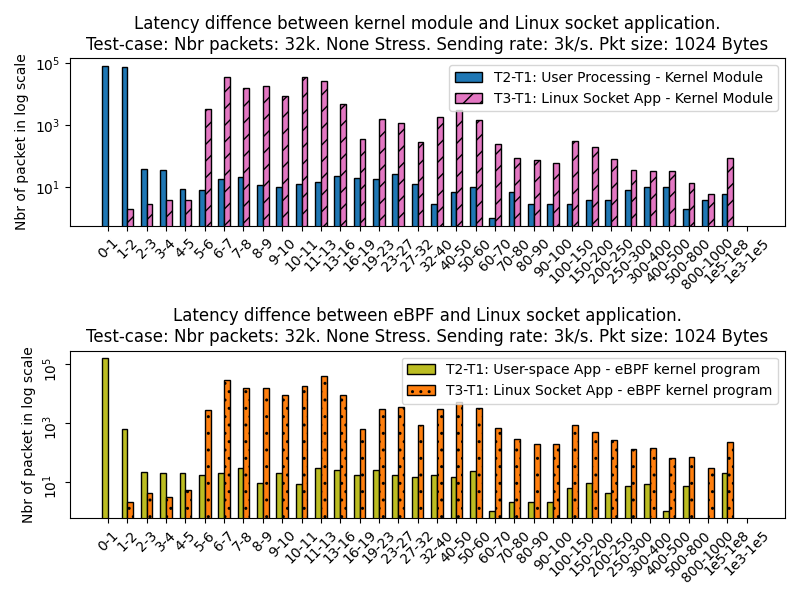
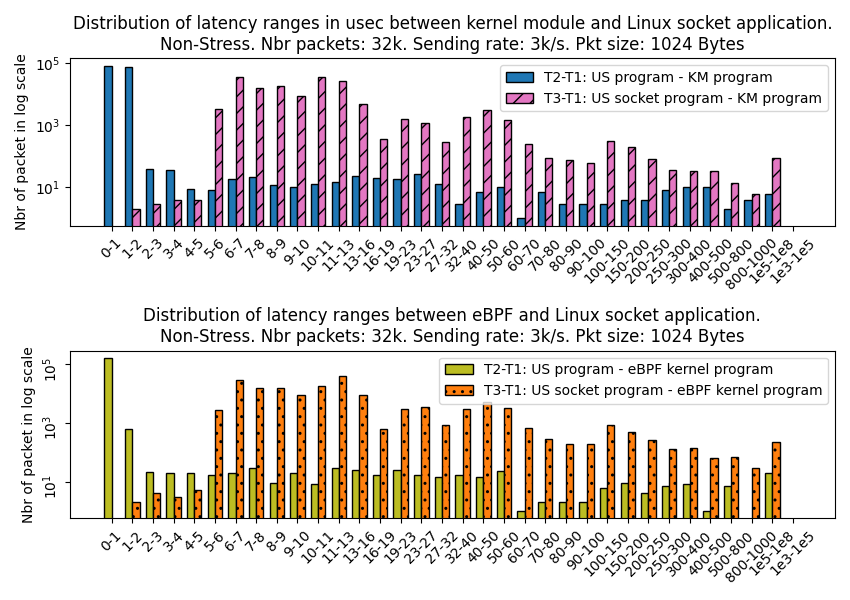
.

Changed region(s): [[0.0, 0.03, 1.0, 0.48], [0.0312, 0.57, 1.0, 0.99], [0.0938, 0.51, 0.9688, 0.57]]

diff --git a/scripts/ps_combi_2_stress_non.py b/scripts/ps_combi_2_stress_non.py
@@ -15,12 +15,12 @@ import math
 # ]
 
 translate_cases = {
-    "32k_nonstress_3pkpms_1024Bytes": "Nbr packets: 32k. None Stress. Sending rate: 3k/s. Pkt size: 1024 Bytes",
-    "32k_stress_3pkpms_1024Bytes": "Nbr packets: 32k. Stress 100%. Sending rate: 3k/s. Pkt size: 1024 Bytes",
-    "65k_nonstress_6pkpms_512Bytes": "Nbr packets: 65k. None Stress. Sending rate: 6k/s. Pkt size: 512 Bytes",
-    "65k_stress_6pkpms_512Bytes": "Nbr packets: 65k. Stress 100%. Sending rate: 6k/s. Pkt size: 512 Bytes",
-    "524k_nonstress_50pkpms_64Bytes": "Nbr packets: 524k. None Stress. Sending rate: 50k/s. Pkt size: 64 Bytes",
-    "524k_stress_50pkpms_64Bytes": "Nbr packets: 524k. Stress 100%. Sending rate: 50k/s. Pkt size: 64 Bytes",
+    "32k_nonstress_3pkpms_1024Bytes": "Non-Stress. Nbr packets: 32k. Sending rate: 3k/s. Pkt size: 1024 Bytes",
+    "32k_stress_3pkpms_1024Bytes": "System Stress 100%. Nbr packets: 32k. Sending rate: 3k/s. Pkt size: 1024 Bytes",
+    "65k_nonstress_6pkpms_512Bytes": "Non-Stress. Nbr packets: 65k. Sending rate: 6k/s. Pkt size: 512 Bytes",
+    "65k_stress_6pkpms_512Bytes": "System Stress 100%. Nbr packets: 65k. Sending rate: 6k/s. Pkt size: 512 Bytes",
+    "524k_nonstress_50pkpms_64Bytes": "Non-Stress. Nbr packets: 524k. Sending rate: 50k/s. Pkt size: 64 Bytes",
+    "524k_stress_50pkpms_64Bytes": "System Stress 100%. Nbr packets: 524k. Sending rate: 50k/s. Pkt size: 64 Bytes",
 }
 
 to_usec = 1
@@ -338,26 +338,26 @@ for test_case in test_cases:
 
     """ Plotting """
     x = np.arange(len(labels))  # the label locations
-    width = 0.3  # the width of the bars
+    width = 0.35  # the width of the bars. 0.3
 
     fig, axs = plt.subplots(2,1)
     rects1 = axs[0].bar(
         x - 0.5*width, diff_up_km, width,
-        label="T2-T1: User Processing - Kernel Module", color="tab:blue", edgecolor = "black")#___diff_up_km:')
+        label="T2-T1: US program - KM program", color="tab:blue", edgecolor = "black")#___diff_up_km:')
     rects2 = axs[1].bar(
         x - 0.5*width, diff_usebpf_ebpf, width,
-        label="T2-T1: User-space App - eBPF kernel program", color="tab:olive", edgecolor = "black")#diff_usebpf_ebpf")
+        label="T2-T1: US program - eBPF kernel program", color="tab:olive", edgecolor = "black")#diff_usebpf_ebpf")
     rects3 = axs[0].bar(
         x + 0.5*width, diff_s_km, width, 
-        label="T3-T1: Linux Socket App - Kernel Module", color="tab:pink", hatch='//', edgecolor = "black")#diff_s_km")
+        label="T3-T1: US socket program - KM program", color="tab:pink", hatch='//', edgecolor = "black")#diff_s_km")
     rects4 = axs[1].bar(
         x + 0.5*width, diff_s_ebpf, width, 
-        label="T3-T1: Linux Socket App - eBPF kernel program", color="tab:orange", hatch='..', edgecolor = "black")#diff_s_ebpf")
+        label="T3-T1: US socket program - eBPF kernel program", color="tab:orange", hatch='..', edgecolor = "black")#diff_s_ebpf")
 
     # Add some text for labels, title and custom x-axis tick labels, etc.
     title_postfix = f"{translate_cases.get(test_case)}"
-    axs[0].set_title(f"Latency diffence between kernel module and Linux socket application.\n" + title_postfix)
-    axs[1].set_title(f"Latency diffence between eBPF and Linux socket application.\n" + title_postfix)
+    axs[0].set_title(f"Distribution of latency ranges in usec between kernel module and Linux socket application.\n" + title_postfix)
+    axs[1].set_title(f"Distribution of latency ranges between eBPF and Linux socket application.\n" + title_postfix)
     for i in range(0, 2):
         axs[i].set_ylabel('Nbr of packet in log scale')
         # if v==1000:
@@ -375,7 +375,7 @@ for test_case in test_cases:
     # axs[1].bar_label(rects2, padding=3)
     # axs[0].bar_label(rects3, padding=3)
     # axs[1].bar_label(rects4, padding=3)
-    fig.set_size_inches(8, 6)
+    fig.set_size_inches(8.5, 6)
     fig.tight_layout()
 
     # plt.xticks(rotation=45)
